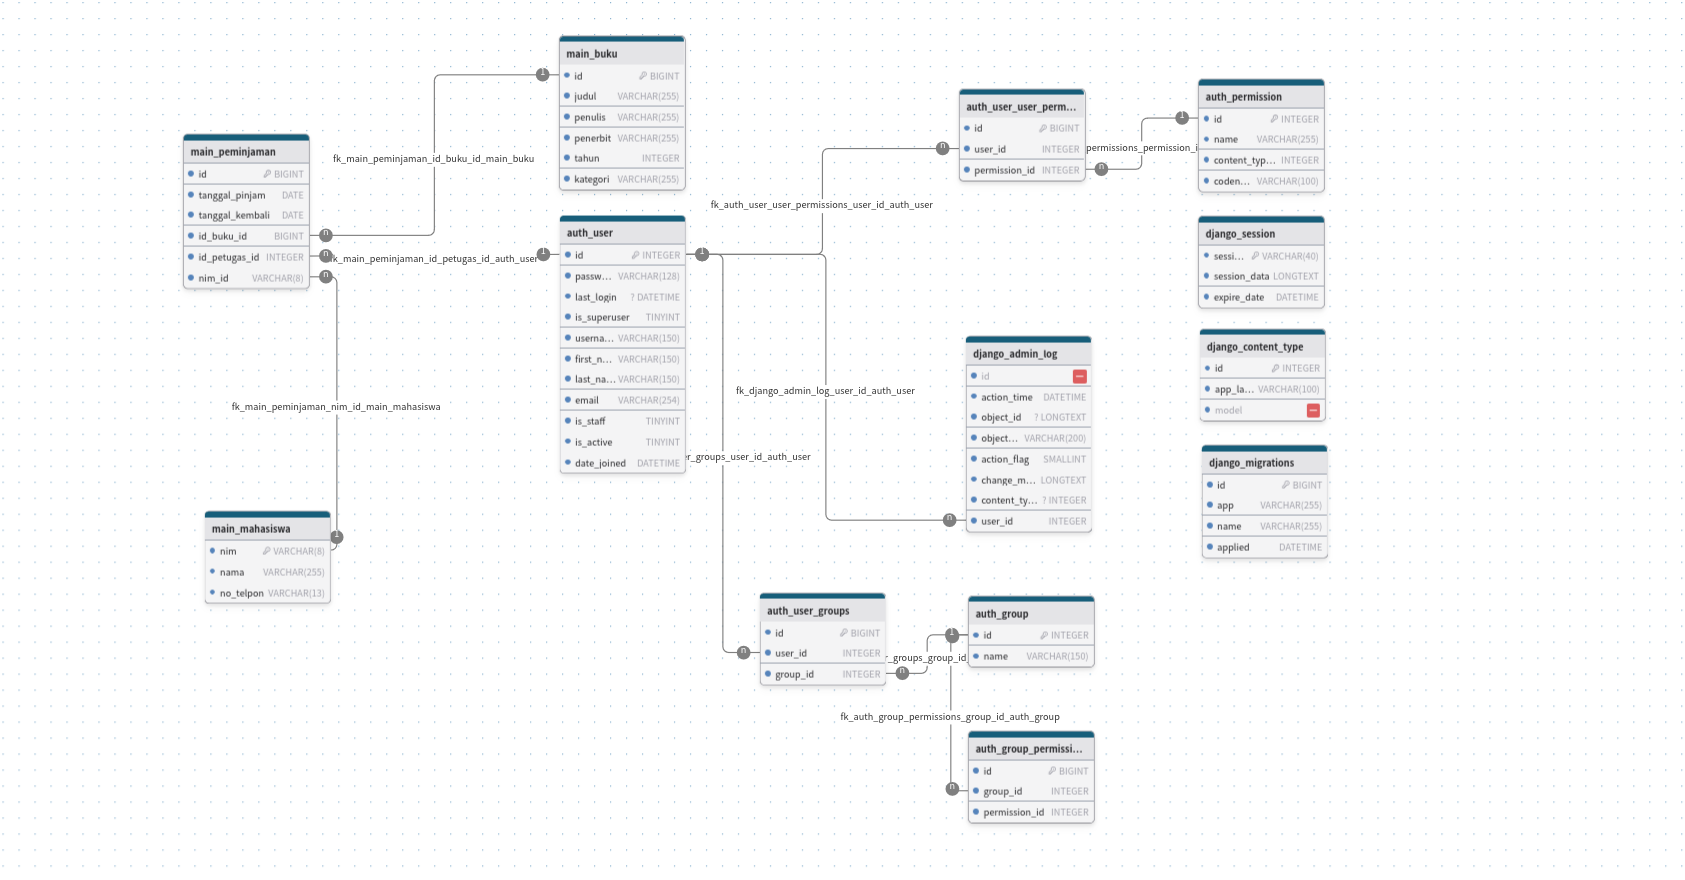
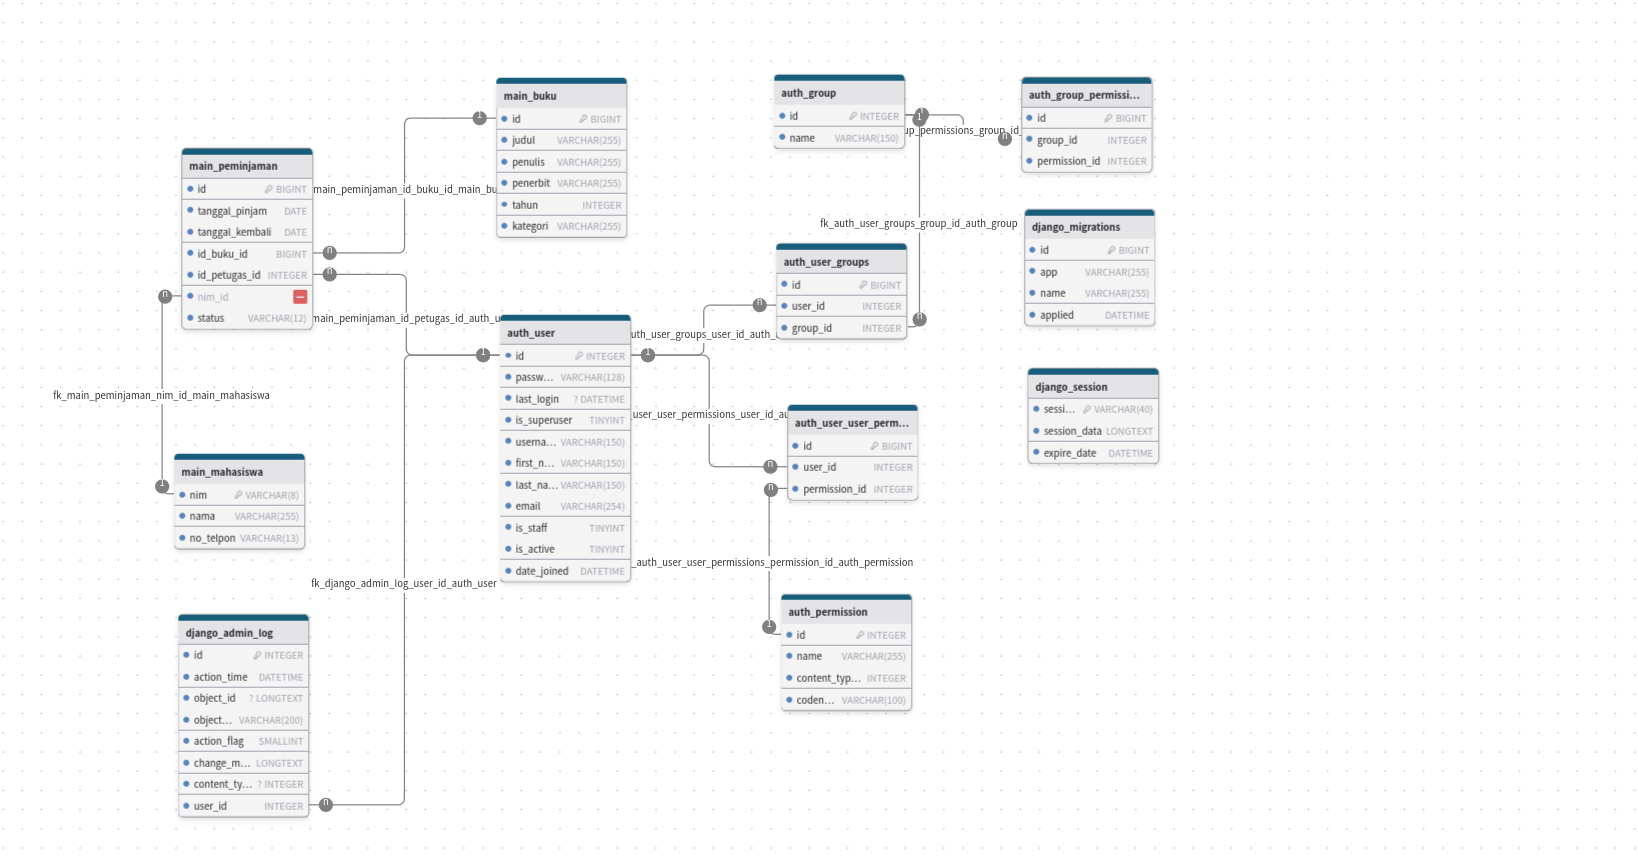
add docker use docs

Changed region(s): [[0.0934, 0.0312, 0.8095, 0.9375], [0.0311, 0.4375, 0.2491, 0.4688]]

diff --git a/README.md b/README.md
@@ -1,3 +1,21 @@
+# Tutorial Menjalankan Aplikasi dengan Docker
+
+1. Salin file `.env.example` menjadi `.env`:
+   ```bash
+   cp .env.example .env
+   ```
+2. Sesuaikan konfigurasi di file `.env` sesuai kebutuhan (contoh: kredensial database, username dan password admin)
+3. Build image Docker:
+   ```bash
+   docker compose build
+   ```
+4. Jalankan container:
+   ```bash
+   docker compose up
+   ```
+
+Setelah itu, aplikasi akan berjalan di http://127.0.0.1:8000/admin
+
 # SIMPERPUS - Sistem Informasi Manajemen Perpustakaan
 ### (Library Management System using Django Framework)
 
@@ -79,6 +97,7 @@ Dalam era digital saat ini, pengelolaan data akademik yang efisien dan terstrukt
 | id              | BIGINT        | Primary Key                    |
 | tanggal_pinjam  | DATE          | Tanggal peminjaman             |
 | tanggal_kembali | DATE          | Tanggal pengembalian           |
+| status          | VARCHAR(12)   | Status Peminjaman           |
 | id_buku_id      | BIGINT        | Foreign Key ke main_buku       |
 | id_petugas_id   | INTEGER       | Foreign Key ke auth_user       |
 | nim_id          | VARCHAR(8)    | Foreign Key ke main_mahasiswa  |
@@ -121,7 +140,7 @@ CREATE DATABASE dj_perpustakaan;
 
 -- Langkah 2: Buat user dan beri hak akses
 CREATE USER 'perpustakaan_user'@'localhost' IDENTIFIED BY 'password_aman';
-GRANT ALL PRIVILEGES ON dj_perpustakaan.* TO 'perpustakaan_user'@'localhost';
+GRANT ALL PRIVILEGES ON dj_perpustakaan TO 'perpustakaan_user'@'localhost';
 ```
 
 ## 3.2 Pemrograman Aplikasi
